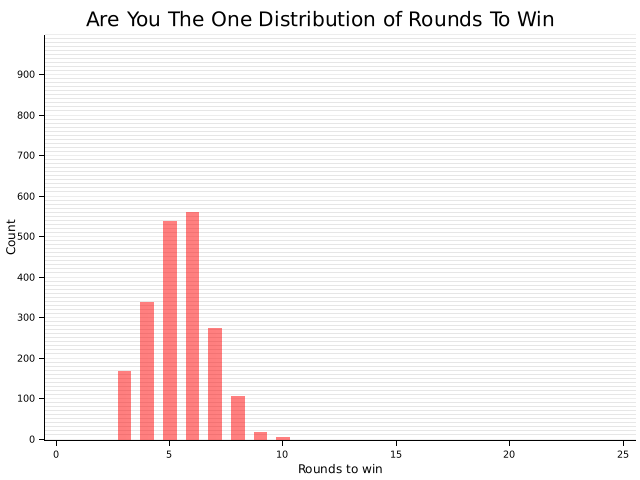
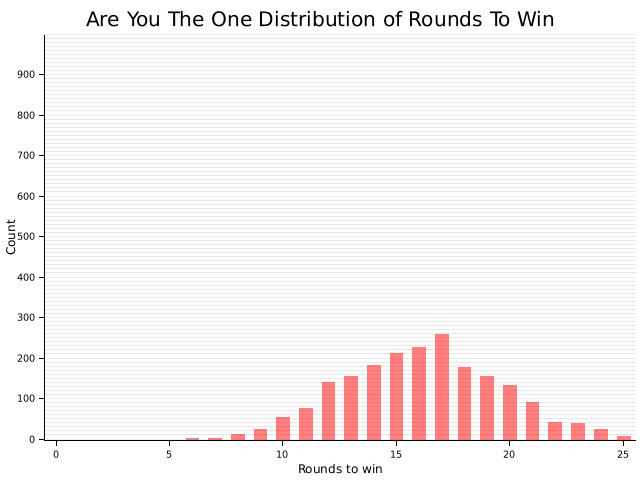
Added test log. Added early exit if all pairs are found in ceremony. Recomputed images

Changed region(s): [[0.1875, 0.4375, 1.0, 0.9375]]

diff --git a/src/main.rs b/src/main.rs
@@ -19,9 +19,9 @@ use crate::bruteforce::BruteForce;
 
 const OUTPUT_FOLDER: &'static str = "trials/";
 
-fn game(num_pairs: i32, timeout_rounds: usize) -> u32 {
+fn game(num_players: i32, timeout_rounds: usize) -> u32 {
 
-    let mut game = GameMaster::initialize_game(num_pairs, timeout_rounds as i32);
+    let mut game = GameMaster::initialize_game(num_players, timeout_rounds as i32);
 
     let mut strategy = BruteForce::initialize(game.contestants());
     info!("-------------------------Correct pairing-------------------------\n{}", ContestantPairs(&game.matches));
@@ -53,7 +53,7 @@ fn generate_normal_game_distribution(num_trials: usize, file_name: &str) -> Resu
     let mut frequency_map: HashMap<u32, u32> = HashMap::new();
     while trial < num_trials {
         trial += 1;
-        let num_rounds = game(8, 500);
+        let num_rounds = game(16, 500);
 
         if frequency_map.contains_key(&num_rounds) {
             let count = frequency_map.get_mut(&num_rounds).unwrap();
@@ -136,8 +136,8 @@ fn generate_running_time_plot(max_pairs: i32, step_size: usize, iterations: usiz
 }
 
 fn main() {
-    // simple_logging::log_to_file("test.log", LevelFilter::Trace);
-
+    // simple_logging::log_to_file("test.log", LevelFilter::Info);
+    // game(16, 500);
     generate_normal_game_distribution(2000, "normal_game_bruteforce_round_optimization.png");
     generate_running_time_plot(100, 2, 4, "running_time_bruteforce_round_optimization.png");
 }

diff --git a/src/gamemaster.rs b/src/gamemaster.rs
@@ -1,3 +1,4 @@
+use crate::ContestantPairs;
 use crate::gamestrategy::Feedback;
 use crate::contestant::{ContestantPair, Player};
 use rand::seq::SliceRandom;
@@ -64,8 +65,8 @@ impl GameMaster {
 
     }
 
-    pub fn ceremony(&self, pairs: &Vec<ContestantPair>) -> usize {
-
+    pub fn ceremony(&mut self, pairs: &Vec<ContestantPair>) -> usize {
+        info!("\n{}", &ContestantPairs(pairs));
         let mut num_matches = 0;
         for p in pairs.iter() {
             if self.is_match(p) {
@@ -73,6 +74,9 @@ impl GameMaster {
             }
         }
         info!("{} perfect matches are contained!", num_matches);
+        if num_matches == self.matches.len() {
+            self.num_matched = num_matches as i32;
+        }
         return num_matches;
     }
 
@@ -81,7 +85,7 @@ impl GameMaster {
             println!("timed out with {} iterations", self.max_iterations);
         } else {
             println!("{} perfect matches were found successfully after {} iterations",
-                self.contestants().len(),
+                self.contestants().len() / 2,
                 self.iterations
             );
         }
